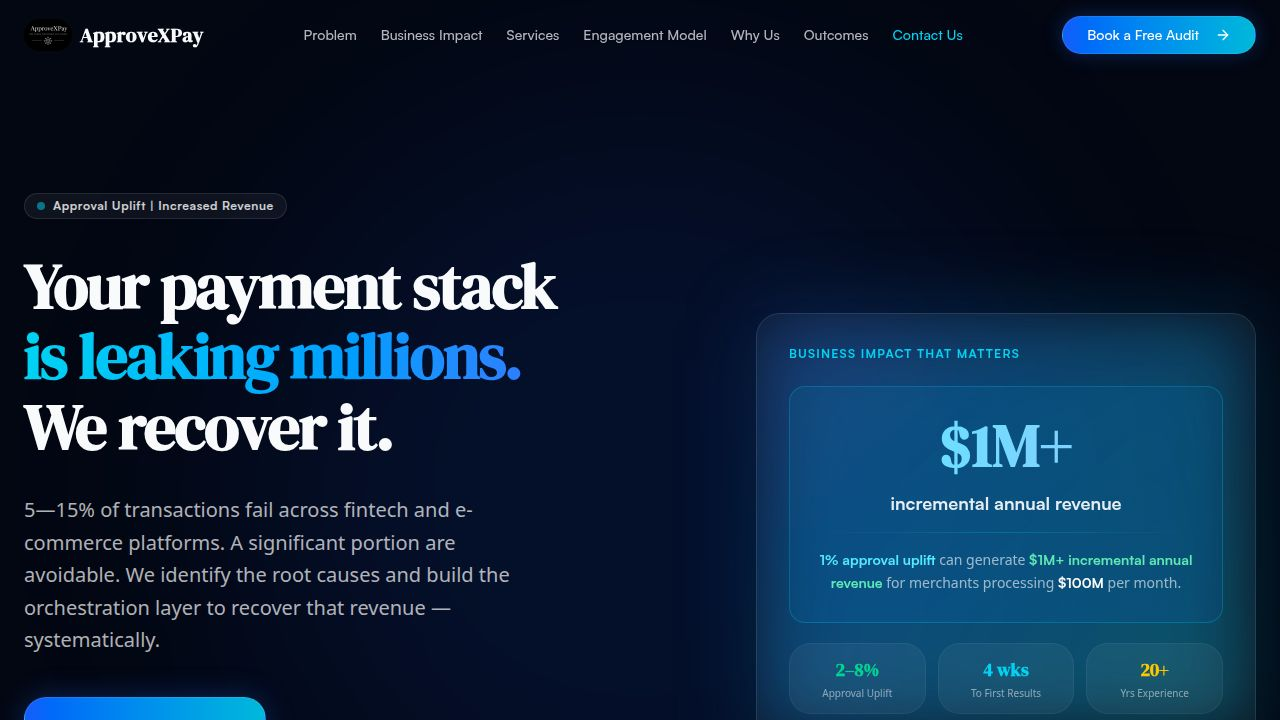
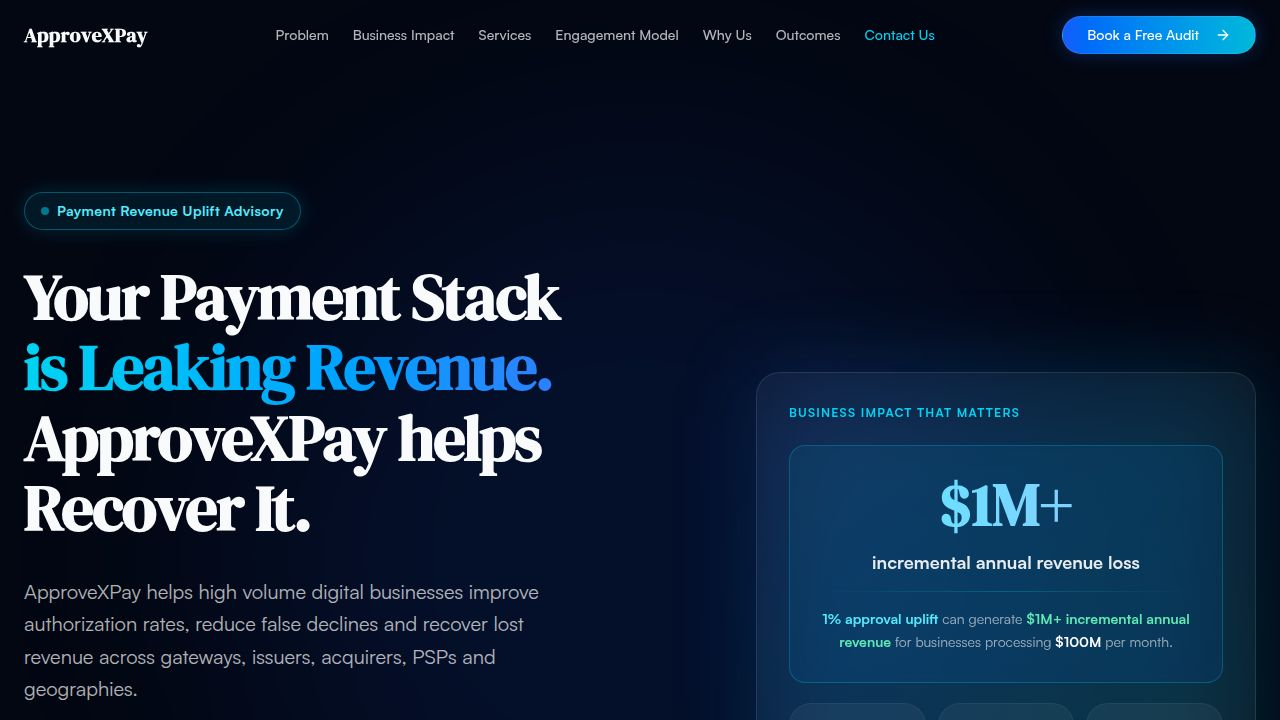
Update website content and service offerings to improve user engagement
Refactor HomePage.tsx to update hero section copy, service descriptions, and card layouts, and modify opengraph.jpg.

Replit-Commit-Author: Agent
Replit-Commit-Session-Id: c5edb46e-f540-4b0a-991b-328aa967798d
Replit-Commit-Checkpoint-Type: full_checkpoint
Replit-Commit-Event-Id: 9a1e733f-0210-481f-96ad-b1b79e75d2ba
Replit-Commit-Screenshot-Url: https://storage.googleapis.com/screenshot-production-us-central1/2701c498-7aa9-4b42-8d30-762d12b96a79/c5edb46e-f540-4b0a-991b-328aa967798d/3KAa9jX
Replit-Helium-Checkpoint-Created: true

diff --git a/artifacts/approvexpay-clone/src/pages/HomePage.tsx b/artifacts/approvexpay-clone/src/pages/HomePage.tsx
@@ -71,35 +71,35 @@ export default function HomePage() {
       num: "01", title: "Revenue Recovery & Approval Uplift",
       sub: "Increase payment authorization approvals and recover hidden revenue.",
       highlights: ["2–8% approval uplift opportunity", "Multi-million dollar revenue recovery"],
-      whatWeDo: ["Analyze decline patterns", "Identify false decline opportunities", "Improve approval rates across geographies", "Optimize authorization performance", "Recover lost revenue"],
-      deliverables: ["Approval uplift roadmap", "Decline analysis", "Issuer/acquirer optimization recommendations", "KPI dashboard recommendations"]
+      whatWeDo: ["Analyze decline patterns across geographies and currencies", "Identify false decline opportunities by issuer and BIN", "Optimize authorization performance across PSPs and acquirers"],
+      deliverables: ["Approval uplift roadmap", "Decline analysis report", "KPI dashboard recommendations"]
     },
     {
       num: "02", title: "Payment Orchestration Strategy & Build",
       sub: "Design scalable payment architecture for performance and resilience.",
       highlights: ["3–10% approval improvement in multi-PSP environments", "Reduced payment failure concentration"],
-      whatWeDo: ["Multi-PSP strategy", "Acquirer optimization", "Routing architecture", "Failover design", "Token strategy", "Smart retry framework"],
-      deliverables: ["Orchestration blueprint", "Vendor evaluation support", "Routing logic design", "Future-state architecture"]
+      whatWeDo: ["Multi-PSP and multi-currency routing strategy", "Acquirer optimization across geographies", "Intelligent failover and smart retry framework"],
+      deliverables: ["Orchestration blueprint", "Vendor evaluation support", "Future-state multi-geo architecture"]
     },
     {
       num: "03", title: "Decline Diagnostic Assessment",
       sub: "Identify where and why approvals are failing.",
       highlights: ["20–40% recoverable decline opportunities", "Visibility into issuer, routing, and retry inefficiencies"],
-      whatWeDo: ["Decline code analysis", "Decline categorization by root cause", "Issuer trend analysis", "BIN-level diagnostics"],
+      whatWeDo: ["Decline code analysis by market and currency", "Decline categorization by root cause", "Issuer trend and BIN-level diagnostics"],
       deliverables: ["Root cause report", "Revenue leakage assessment", "Prioritized optimization actions"]
     },
     {
       num: "04", title: "Intelligent Routing Strategy",
       sub: "Route transactions dynamically to maximize approval probability.",
       highlights: ["2–6% approval uplift", "Reduced cross-border decline concentration"],
-      whatWeDo: ["Acquirer routing optimization", "BIN routing", "Geographic routing", "Cost-performance balancing", "Retry routing logic"],
+      whatWeDo: ["Acquirer routing optimization by region and BIN", "Geographic and multi-currency routing logic", "Cost-performance balancing across corridors"],
       deliverables: ["Routing decision framework", "Performance optimization matrix", "Routing recommendation engine logic"]
     },
     {
       num: "05", title: "Smart Retry Optimization",
       sub: "Recover failed payments intelligently.",
       highlights: ["10–20% soft-declined transactions recovered", "Improved subscription payment recovery rates"],
-      whatWeDo: ["Retry timing optimization", "Issuer-aware retry strategy", "Retry logic segmentation", "Subscription retry strategy"],
+      whatWeDo: ["Retry timing optimization by decline code and market", "Issuer-aware retry strategy across regions", "Subscription retry strategy for recurring billing"],
       deliverables: ["Retry playbook", "Recovery optimization framework", "Retry sequencing strategy"]
     },
   ];
@@ -111,7 +111,6 @@ export default function HomePage() {
       <nav className={`fixed top-0 left-0 right-0 z-50 transition-all duration-300 ${scrolled ? "bg-[#030712]/80 backdrop-blur-md border-b border-white/5" : "bg-transparent"} py-4`}>
         <div className="container mx-auto px-6 flex items-center justify-between">
           <div className="flex items-center gap-2 cursor-pointer" onClick={() => window.scrollTo(0, 0)}>
-            <img src="https://hercules-cdn.com/file_E2Kto5hqQfdbFSbDy30zHMdC" alt="ApproveXPay" className="h-8 rounded-full" />
             <span className="font-serif text-xl font-bold tracking-wide">ApproveXPay</span>
           </div>
           <div className="hidden md:flex items-center gap-6 text-sm font-medium text-white/70">
@@ -143,24 +142,29 @@ export default function HomePage() {
           <div className="grid lg:grid-cols-2 gap-12 lg:gap-8 items-center">
 
             <motion.div variants={fadeUp} initial="hidden" animate="visible" className="space-y-8">
-              <div className="inline-flex items-center gap-2 px-3 py-1 rounded-full border border-white/10 bg-white/5 text-xs font-semibold tracking-wider text-white/80">
+              <div className="inline-flex items-center gap-2 px-4 py-2 rounded-full border border-cyan-500/40 bg-cyan-500/10 font-bold tracking-wide text-cyan-300 text-sm shadow-[0_0_20px_rgba(6,182,212,0.2)]">
                 <span className="w-2 h-2 rounded-full bg-cyan-400 animate-pulse" />
-                Approval Uplift | Increased Revenue
+                Payment Revenue Uplift Advisory
               </div>
               <h1 className="text-5xl md:text-6xl lg:text-[clamp(3rem,5vw,4.5rem)] leading-[1.1] font-serif font-extrabold tracking-tight">
-                Your payment stack<br />
-                <span className="bg-gradient-to-r from-cyan-400 to-blue-500 bg-clip-text text-transparent">is leaking millions.</span><br />
-                We recover it.
+                Your Payment Stack<br />
+                <span className="bg-gradient-to-r from-cyan-400 to-blue-500 bg-clip-text text-transparent">is Leaking Revenue.</span><br />
+                ApproveXPay helps Recover It.
               </h1>
-              <p className="text-lg md:text-xl text-white/70 max-w-[520px] leading-relaxed">
-                5—15% of transactions fail across fintech and e-commerce platforms. A significant portion is avoidable. We identify the root causes and build the orchestration layer to recover that revenue — systematically. <span className="text-red-400 font-semibold">Inaction cost businesses significantly! Act Now!</span>
+              <p className="text-lg md:text-xl text-white/70 max-w-[540px] leading-relaxed">
+                ApproveXPay helps high volume digital businesses improve authorization rates, reduce false declines and recover lost revenue across gateways, issuers, acquirers, PSPs and geographies.
+                <br /><br />
+                <span className="text-white/55 text-base italic">Servicing fintechs, subscription businesses, marketplaces, gaming, travel and PE/VC–backed companies.</span>
               </p>
-              <div className="flex flex-wrap items-center gap-4 pt-2">
-                <Button onClick={() => setBookingOpen(true)} className="bg-gradient-to-r from-blue-600 to-cyan-500 hover:from-blue-500 hover:to-cyan-400 text-white rounded-xl px-8 py-6 text-lg font-medium shadow-[0_0_30px_rgba(37,99,235,0.3)] border border-white/10">
-                  <CalendarIcon className="w-5 h-5 mr-2" /> Book a Free Audit
+              <div className="flex flex-wrap items-center gap-3 pt-2">
+                <Button onClick={() => setBookingOpen(true)} className="bg-gradient-to-r from-blue-600 to-cyan-500 hover:from-blue-500 hover:to-cyan-400 text-white rounded-xl px-7 py-5 text-base font-semibold shadow-[0_0_30px_rgba(37,99,235,0.3)] border border-white/10">
+                  <CalendarIcon className="w-4 h-4 mr-2" /> Book Advisory Call
                 </Button>
-                <Button variant="outline" onClick={() => scrollTo("quantify")} className="bg-white/5 hover:bg-white/10 text-white border-white/10 rounded-xl px-8 py-6 text-lg font-medium backdrop-blur-sm">
-                  Quantify Your Loss <ArrowRight className="w-5 h-5 ml-2" />
+                <Button variant="outline" onClick={() => setContactOpen(true)} className="bg-white/5 hover:bg-white/10 text-white border-white/10 rounded-xl px-7 py-5 text-base font-medium backdrop-blur-sm">
+                  Request Payment Assessment
+                </Button>
+                <Button onClick={() => setBookingOpen(true)} className="bg-white/[0.06] hover:bg-white/[0.10] text-cyan-300 border border-cyan-500/30 rounded-xl px-7 py-5 text-base font-medium backdrop-blur-sm">
+                  Discuss Revenue Uplift <ArrowRight className="w-4 h-4 ml-2" />
                 </Button>
               </div>
             </motion.div>
@@ -175,7 +179,7 @@ export default function HomePage() {
                   <p className="text-white/90 text-lg font-semibold leading-snug">incremental annual revenue loss</p>
                   <div className="h-px bg-gradient-to-r from-transparent via-cyan-500/30 to-transparent" />
                   <p className="text-white/60 text-sm leading-relaxed">
-                    <span className="text-cyan-300 font-bold">1% approval uplift</span> can generate <span className="text-emerald-300 font-bold">$1M+ incremental annual revenue</span> for merchants processing <span className="text-white font-semibold">$100M</span> per month.
+                    <span className="text-cyan-300 font-bold">1% approval uplift</span> can generate <span className="text-emerald-300 font-bold">$1M+ incremental annual revenue</span> for businesses processing <span className="text-white font-semibold">$100M</span> per month.
                   </p>
                 </div>
                 <div className="mt-5 grid grid-cols-3 gap-3 text-center">
@@ -313,42 +317,41 @@ export default function HomePage() {
       <section id="services" className="py-20 bg-[#0a0f1e]">
         <div className="container mx-auto px-6">
           <motion.div initial="hidden" whileInView="visible" viewport={{ once: true }} variants={fadeUp} className="mb-14">
-            <span className="text-cyan-400 text-sm font-bold tracking-widest uppercase mb-3 block">Services</span>
-            <h2 className="text-4xl md:text-5xl font-serif mb-4">End-to-end payment revenue recovery.</h2>
+            <span className="text-cyan-400 text-sm font-bold tracking-widest uppercase mb-3 block">Services & Business Outcome</span>
+            <h2 className="text-4xl md:text-5xl font-serif font-extrabold mb-4 bg-gradient-to-r from-cyan-300 via-white to-blue-300 bg-clip-text text-transparent">ApproveXPay identifies and recovers these hidden losses.</h2>
           </motion.div>
-          <div className="space-y-4">
+          <div className="grid sm:grid-cols-2 lg:grid-cols-3 gap-5">
             {services.map((svc, i) => (
               <motion.div key={i} initial="hidden" whileInView="visible" viewport={{ once: true }} variants={fadeUp}
-                className="bg-white/[0.02] border border-white/10 rounded-[20px] p-7 hover:border-white/15 transition-colors">
-                <div className="grid lg:grid-cols-12 gap-6">
-                  <div className="lg:col-span-4">
-                    <div className="text-cyan-400 text-sm font-bold mb-2">Service {svc.num}</div>
-                    <h3 className="text-2xl font-serif font-bold mb-2">{svc.title}</h3>
-                    <p className="text-white/55 text-sm mb-4">{svc.sub}</p>
-                    <div className="space-y-1.5">
-                      {svc.highlights.map((h, j) => (
-                        <div key={j} className="flex items-center gap-2 text-cyan-400 text-xs font-semibold">
-                          <ShieldCheck className="w-3.5 h-3.5 flex-shrink-0" /> {h}
-                        </div>
-                      ))}
+                className="bg-white/[0.02] border border-white/10 rounded-[20px] p-6 hover:border-cyan-500/20 hover:bg-white/[0.04] transition-all flex flex-col gap-5">
+                <div>
+                  <div className="text-cyan-400 text-xs font-bold mb-2 tracking-widest uppercase">Service {svc.num}</div>
+                  <h3 className="text-xl font-serif font-bold mb-2 text-white">{svc.title}</h3>
+                  <p className="text-white/50 text-sm leading-relaxed">{svc.sub}</p>
+                </div>
+                <div className="space-y-1.5">
+                  {svc.highlights.map((h, j) => (
+                    <div key={j} className="flex items-center gap-2 text-cyan-400 text-xs font-semibold">
+                      <ShieldCheck className="w-3.5 h-3.5 flex-shrink-0" /> {h}
                     </div>
-                  </div>
-                  <div className="lg:col-span-4">
-                    <p className="text-xs font-bold text-white/40 uppercase tracking-widest mb-3">What We Do</p>
-                    <ul className="space-y-1.5">
-                      {svc.whatWeDo.map((w, j) => (
-                        <li key={j} className="text-sm text-white/65 flex gap-2"><span className="text-white/30">—</span>{w}</li>
-                      ))}
-                    </ul>
-                  </div>
-                  <div className="lg:col-span-4">
-                    <p className="text-xs font-bold text-white/40 uppercase tracking-widest mb-3">Deliverables</p>
-                    <ul className="space-y-1.5">
-                      {svc.deliverables.map((d, j) => (
-                        <li key={j} className="text-sm text-white/65 flex gap-2"><span className="text-white/30">—</span>{d}</li>
-                      ))}
-                    </ul>
-                  </div>
+                  ))}
+                </div>
+                <div className="h-px bg-white/5" />
+                <div>
+                  <p className="text-xs font-bold text-white/40 uppercase tracking-widest mb-2.5">What We Do</p>
+                  <ul className="space-y-1.5">
+                    {svc.whatWeDo.map((w, j) => (
+                      <li key={j} className="text-sm text-white/60 flex gap-2"><span className="text-cyan-500/50 mt-0.5">▸</span>{w}</li>
+                    ))}
+                  </ul>
+                </div>
+                <div>
+                  <p className="text-xs font-bold text-white/40 uppercase tracking-widest mb-2.5">Deliverables</p>
+                  <ul className="space-y-1.5">
+                    {svc.deliverables.map((d, j) => (
+                      <li key={j} className="text-sm text-white/60 flex gap-2"><span className="text-emerald-500/50 mt-0.5">▸</span>{d}</li>
+                    ))}
+                  </ul>
                 </div>
               </motion.div>
             ))}
@@ -360,7 +363,7 @@ export default function HomePage() {
       <section id="engagement-model" className="py-20 relative">
         <div className="container mx-auto px-6">
           <motion.div initial="hidden" whileInView="visible" viewport={{ once: true }} variants={fadeUp} className="mb-14">
-            <span className="text-cyan-400 text-sm font-bold tracking-widest uppercase mb-3 block">Engagement Model</span>
+            <span className="text-cyan-400 text-sm font-bold tracking-widest uppercase mb-3 block">Ideal Clients & Engagement Model</span>
             <h2 className="text-4xl md:text-5xl font-serif mb-4">From audit to outcomes in 8 weeks.</h2>
             <p className="text-lg text-white/60 max-w-3xl">We don't just deliver decks. We work alongside your engineering and product teams to implement changes with a bias for rapid, measurable improvements.</p>
           </motion.div>
@@ -423,7 +426,7 @@ export default function HomePage() {
             </motion.div>
             <motion.div initial="hidden" whileInView="visible" viewport={{ once: true }} variants={fadeUp} className="lg:col-span-7 grid sm:grid-cols-2 gap-5">
               {[
-                { title: "Deep Payments Domain Expertise", sub: "20 Years Experience", desc: "Two decades navigating the complexities of global payment networks, issuer behaviour, and authorization optimization across markets and verticals." },
+                { title: "Deep Global Payments Expertise", sub: "20 Years Experience", desc: "Two decades navigating global payment networks across the US, Europe, MENA and APAC — spanning multi-currency environments, cross-border routing, and issuer behaviour optimization in diverse regulatory landscapes." },
                 { title: "Large-Scale Transaction Ecosystems", sub: "$20B monthly volume at Mastercard Payment Gateway", desc: "Direct experience managing and optimizing payment flows at extraordinary scale — giving us unmatched perspective on what breaks at volume." },
                 { title: "Practical Implementation Focus", sub: "Led Global Mastercard Payment Gateway", desc: "We don't stop at strategy. We embed with your team and drive hands-on implementation of orchestration layers, routing rules, and retry frameworks." },
                 { title: "Executive Advisory Capability", sub: "Director, Mastercard Payment Gateway Services", desc: "Board-level communication — we translate technical payment improvements into business outcomes that executives and investors understand." },
@@ -471,7 +474,6 @@ export default function HomePage() {
             {/* Brand */}
             <div className="md:col-span-1">
               <div className="flex items-center gap-2 mb-4">
-                <img src="https://hercules-cdn.com/file_E2Kto5hqQfdbFSbDy30zHMdC" alt="ApproveXPay" className="h-8 rounded-full" />
                 <span className="font-serif text-lg font-bold">ApproveXPay</span>
               </div>
               <p className="text-white/50 text-sm leading-relaxed mb-5">
